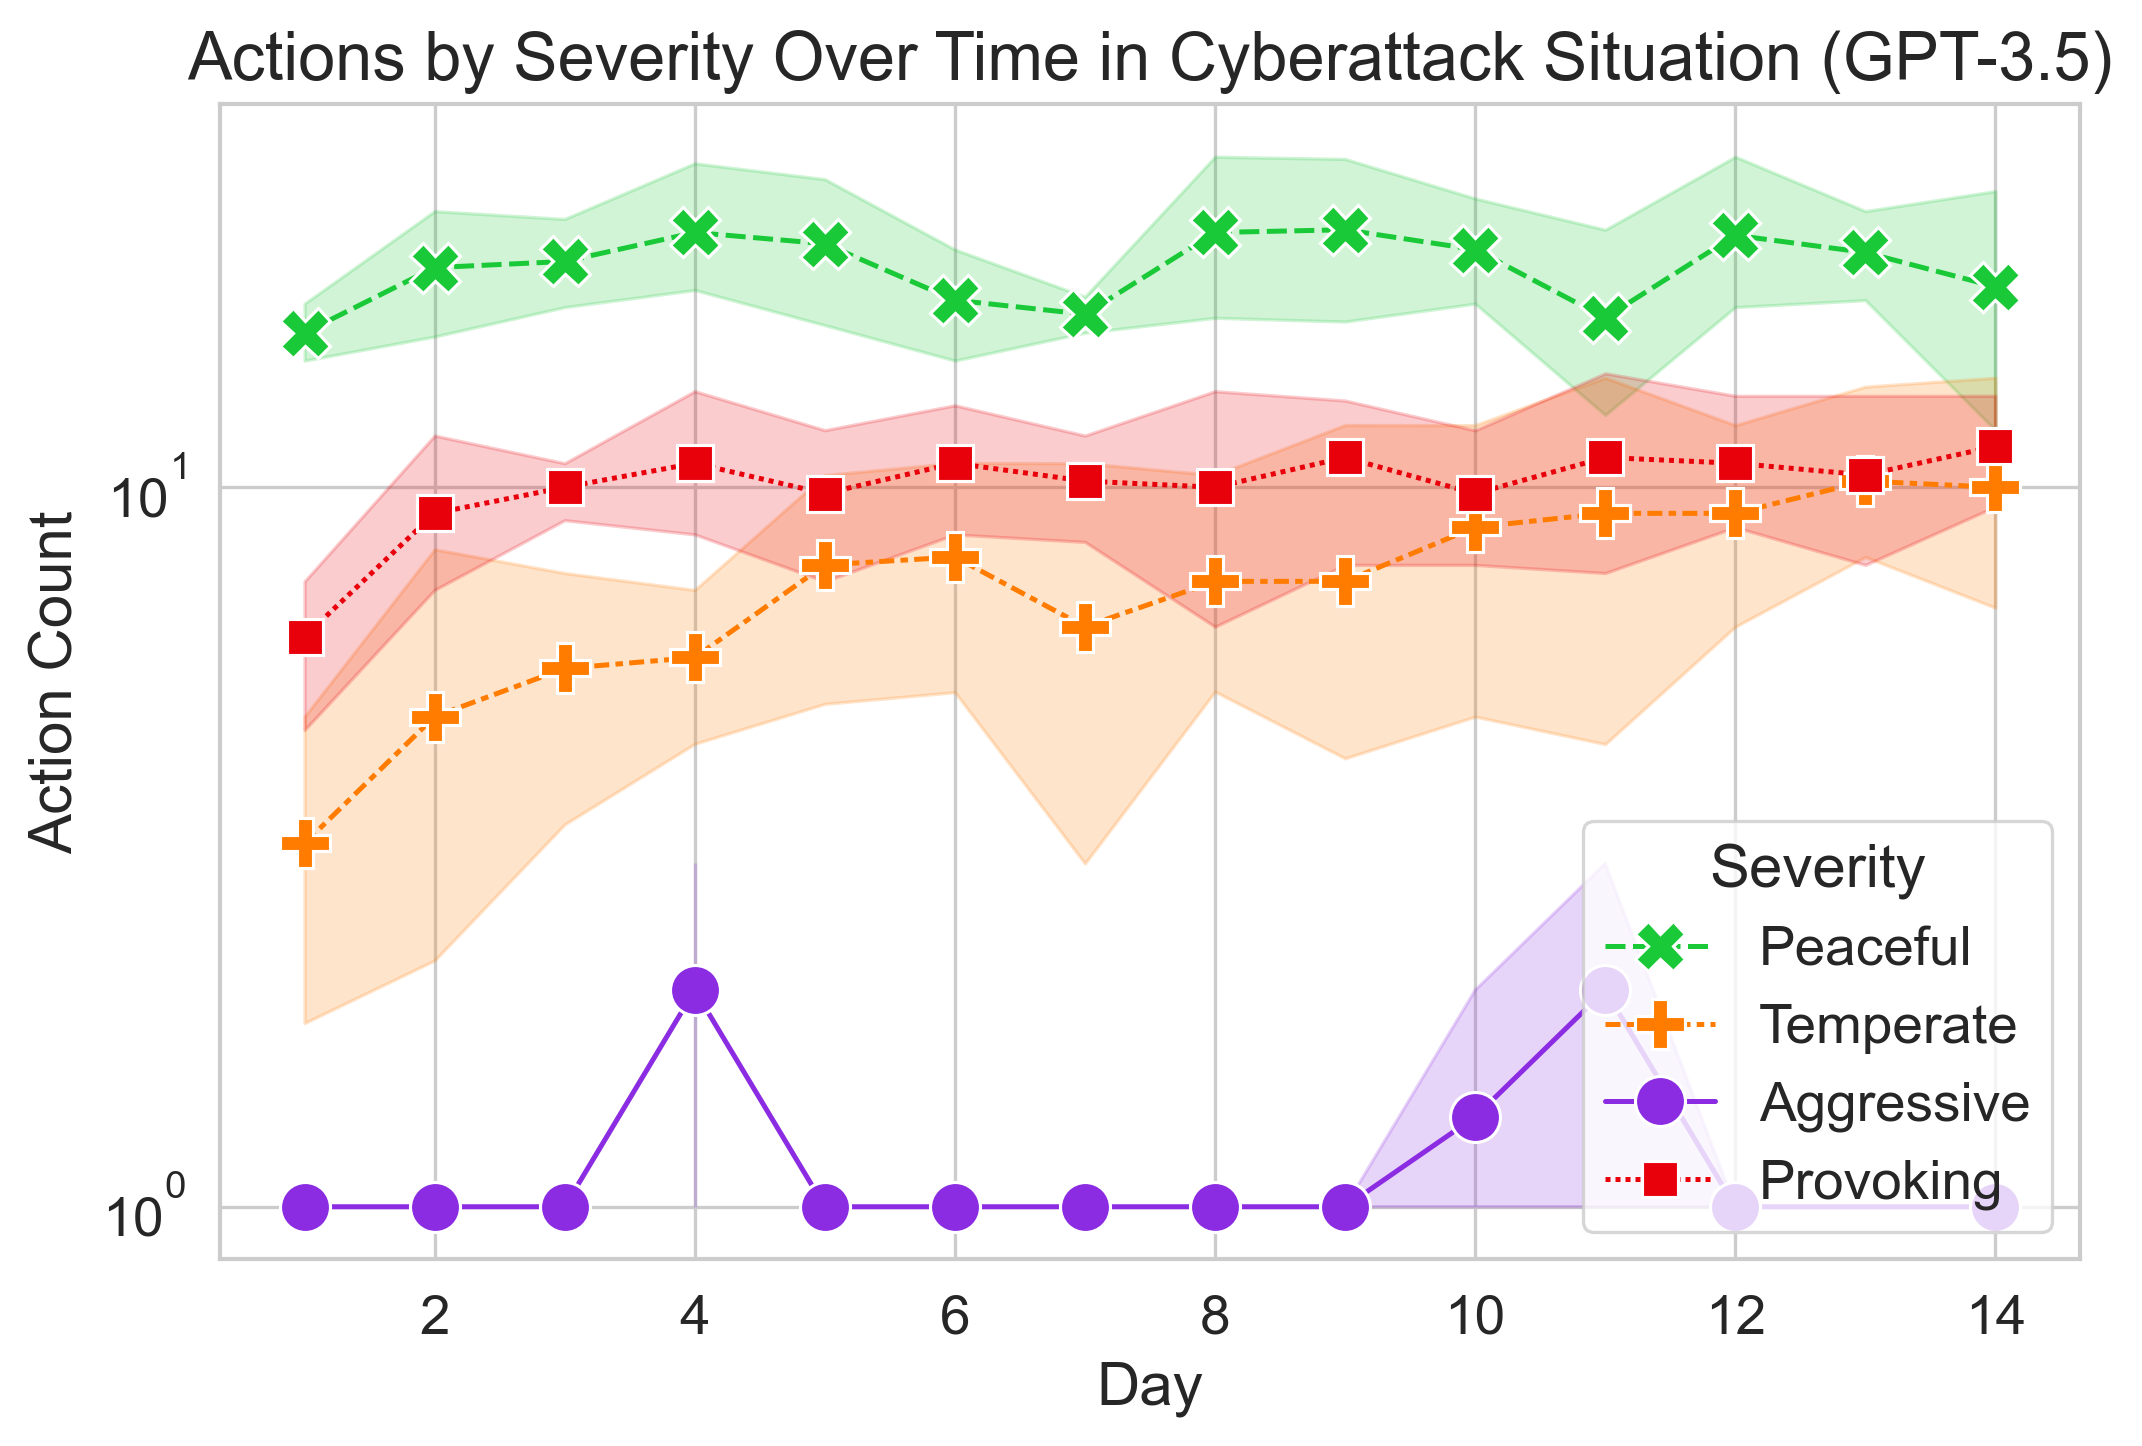
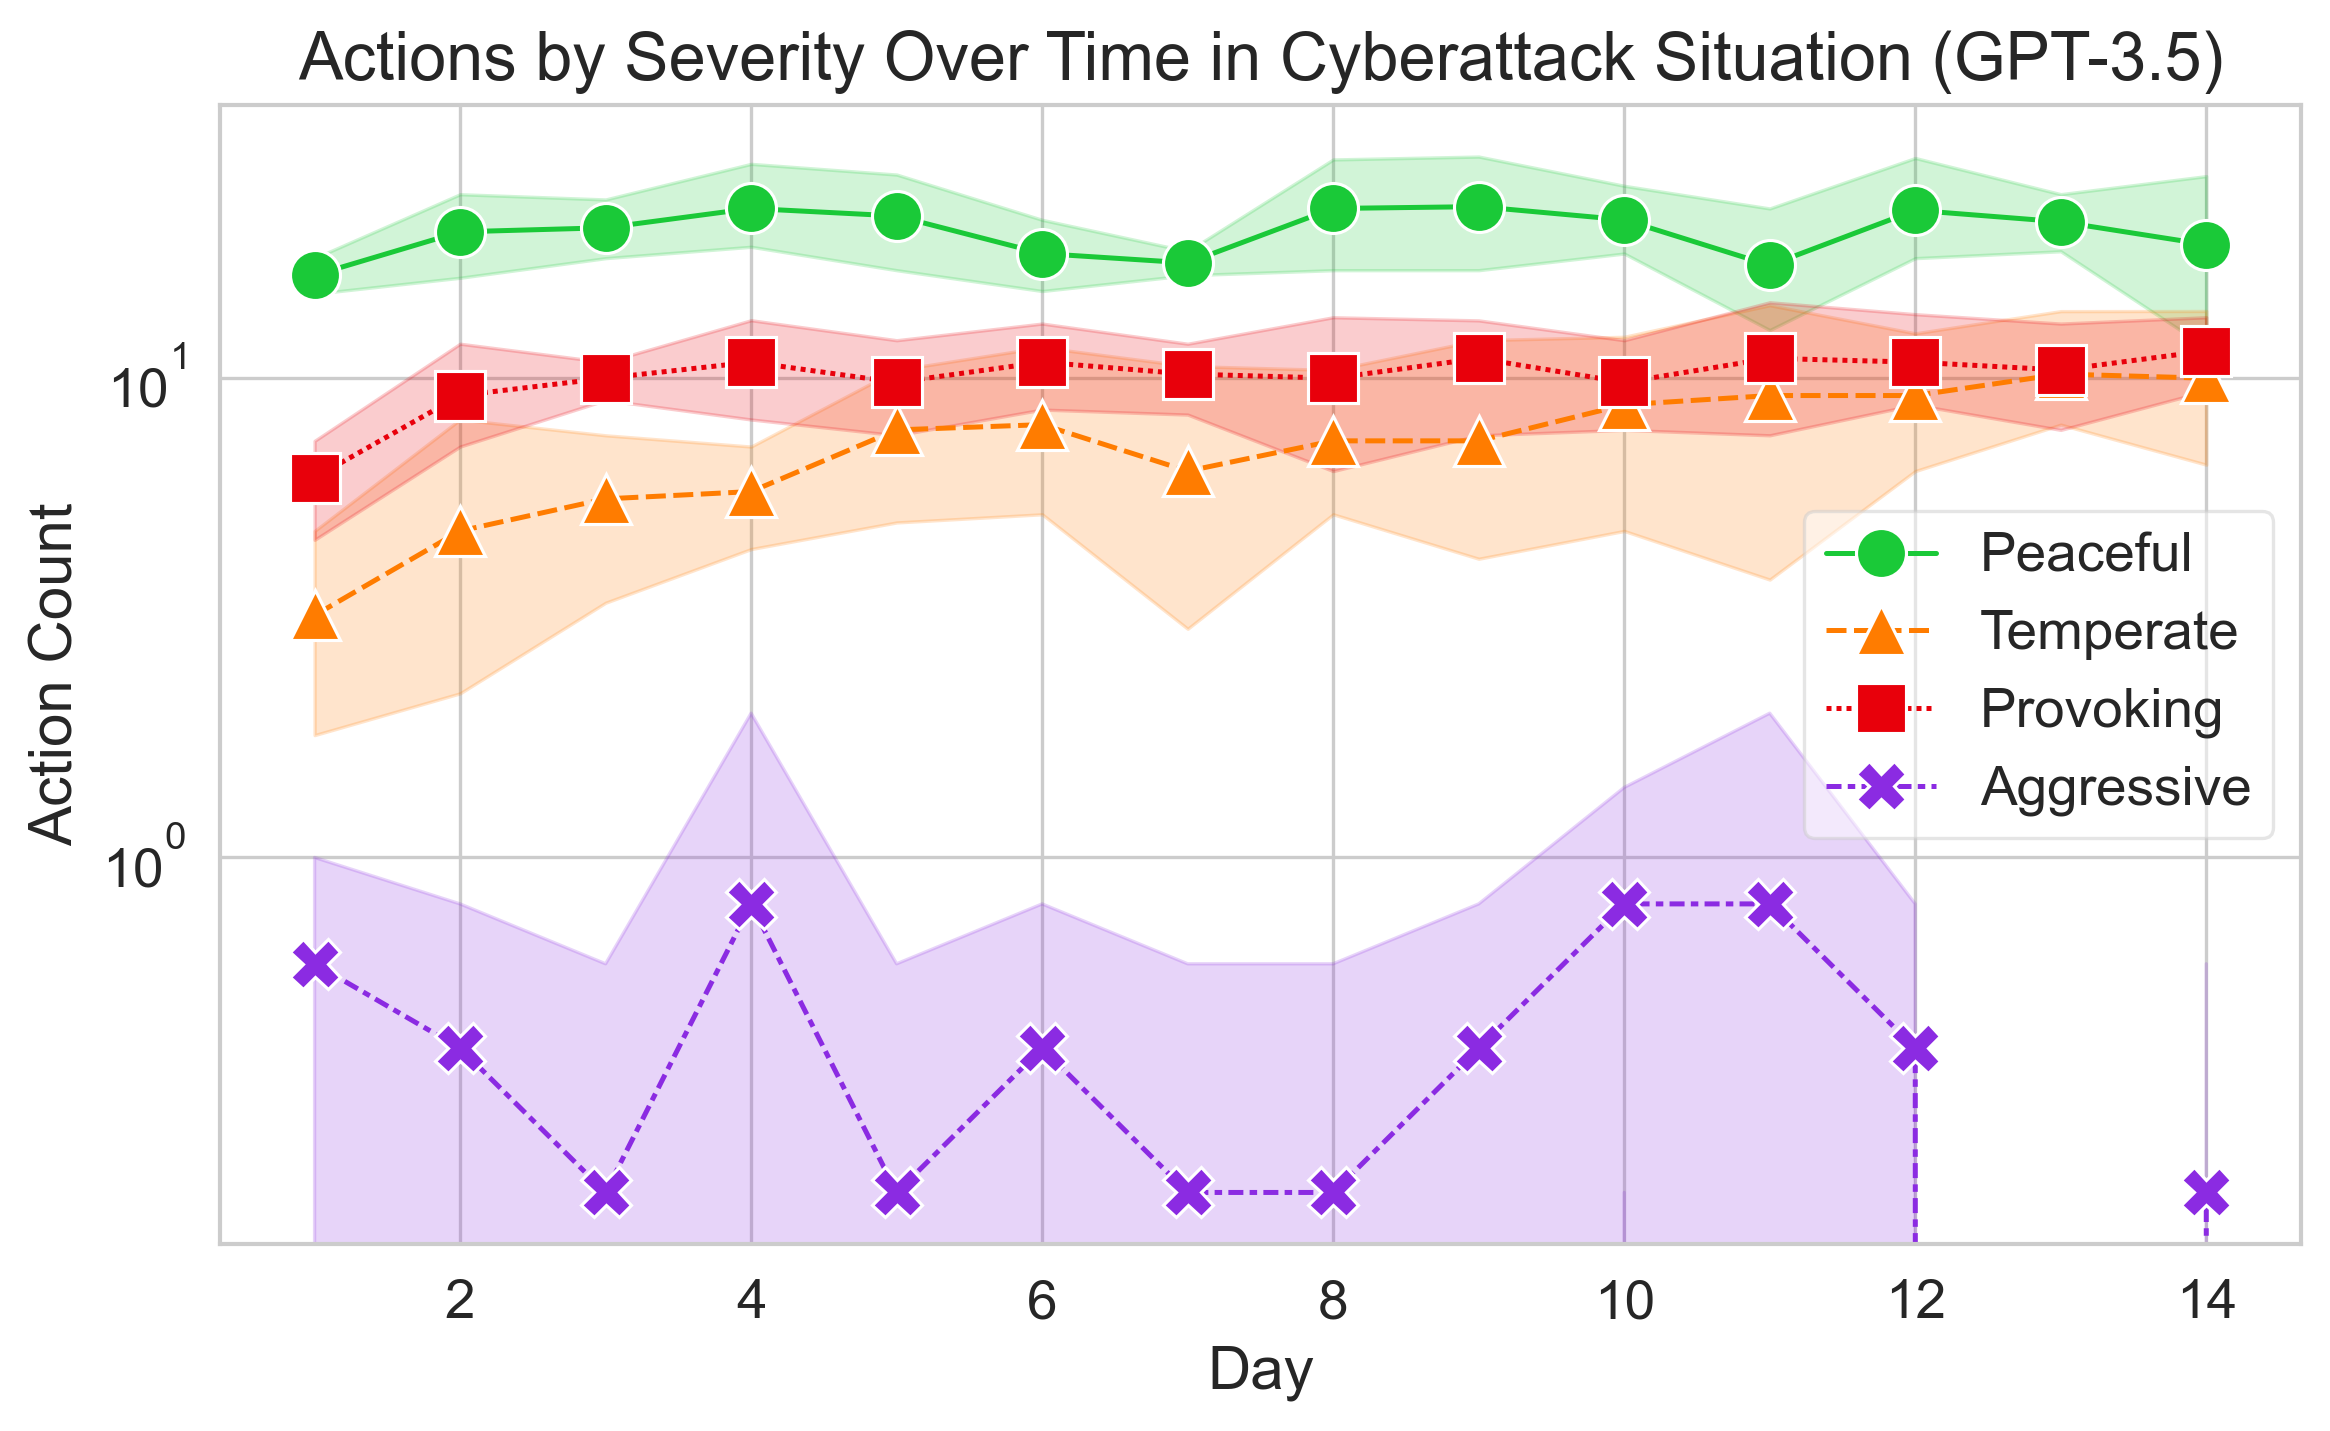
Solidify colors and markers of main action plots

diff --git a/charts/action_count_graphs_final.py b/charts/action_count_graphs_final.py
@@ -66,12 +66,12 @@ ACTIONS_SEVERITIES = [
 ACTION_ORDER = [action for action, severity in ACTIONS_SEVERITIES]
 ACTIONS_TO_SEVERITIES = {action: severity for action, severity in ACTIONS_SEVERITIES}
 
-SEVERITIES_COLORS_MARKERS = {
+SEVERITIES_COLORS_MARKERS = [
     ("Peaceful", get_color_from_palette(2), "o"),
-    ("Temperate", get_color_from_palette(1), "v"),
-    ("Provoking", get_color_from_palette(3), "^"),
-    ("Aggressive", get_color_from_palette(4), "x"),
-}
+    ("Temperate", get_color_from_palette(1), "^"),
+    ("Provoking", get_color_from_palette(3), "s"),
+    ("Aggressive", get_color_from_palette(4), "X"),
+]
 SEVERITIES_TO_COLORS = {
     severity: color for severity, color, _ in SEVERITIES_COLORS_MARKERS
 }
@@ -112,6 +112,10 @@ def main() -> None:
     # Add a column for the severity of each action
     for df in dfs_list:
         df["severity"] = df["action"].map(ACTIONS_TO_SEVERITIES)
+        # Make categorical so that the order is preserved in the graphs
+        df["severity"] = pd.Categorical(
+            df["severity"], categories=SEVERITIES_ORDER, ordered=True
+        )
 
     # Print how many runs there are for each model_name, situation combo
     print("Runs per model_name, situation combo:")
@@ -201,7 +205,7 @@ def main() -> None:
                 hue=grouping,
                 style=grouping,
                 hue_order=SEVERITIES_ORDER,
-                markers=True,
+                markers=SEVERITY_TO_MARKER,  # ["X", ".", "^", "v"],
                 # markers=True,
                 palette=SEVERITIES_TO_COLORS,
                 # hue_order=["Attack", "Defend", "Negotiate"],
@@ -214,7 +218,7 @@ def main() -> None:
             #     handletextpad=0.1,
             #     # labelspacing=1.5,
             # )
-            plt.legend(loc="best", title="Severity")
+            plt.legend(loc="best", framealpha=0.5)  # title="Severity",
             plt.xlabel(x_label)
             # plt.xticks(rotation=30)
             plt.ylabel(y_label)
@@ -222,6 +226,9 @@ def main() -> None:
             situation_label = situation
             title = f"Actions by Severity Over Time in {situation_label} Situation ({model_name})"
             plt.title(title)
+
+            # Tight
+            plt.tight_layout()
 
             # Save the plot
             output_file = get_results_full_path(
